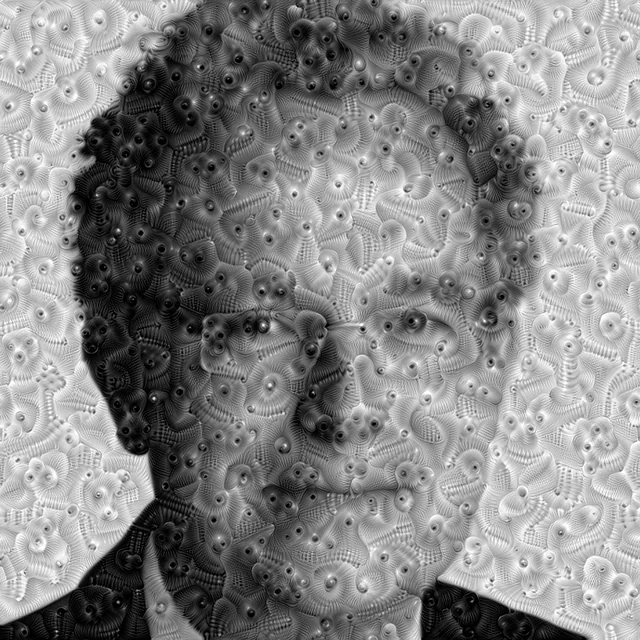
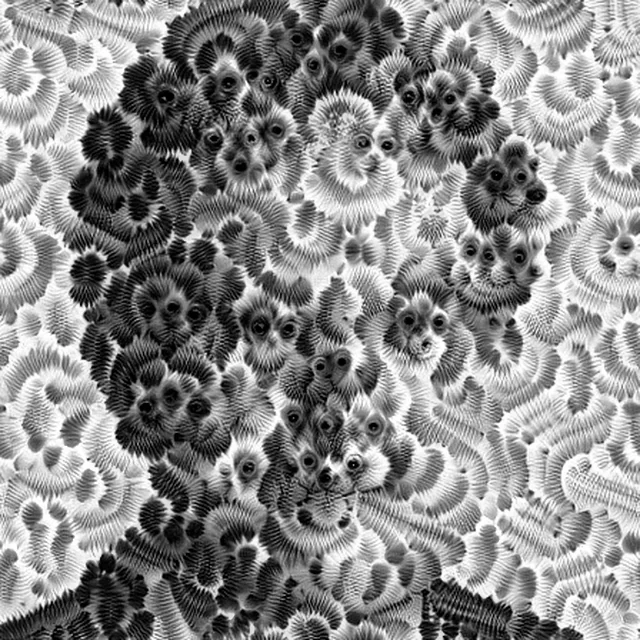
feat(landing): stronger DeepDream on the Hempton portrait
Dreamed on mixed4 + mixed5 at 448px over four octaves and 100 steps,
then upscaled to 640, so the dog faces and eyes are large and many and
only the outline of his head is left.

Claude-Session: https://claude.ai/code/session_01MzgHfwAzQxkQv75w8z7NEz

diff --git a/lib/notes.ts b/lib/notes.ts
@@ -37,7 +37,8 @@ export const NOTES: readonly NoteEntry[] = [
     href: "/writing/the-worst-business-in-the-world",
     tag: null,
     // His portrait run through DeepDream (scripts/deepdream-tile.py, photo
-    // mode), the same treatment as the post's backdrop. Greyscale at rest and
+    // mode) until it is mostly the network's dog faces and eyes, the same
+    // treatment as the post's backdrop. Greyscale at rest and
     // the colour dream on hover; the grey is a luminance reduction in linear
     // light, as for the other shots.
     shot: {
@@ -49,7 +50,7 @@ export const NOTES: readonly NoteEntry[] = [
         width: 640,
         height: 640,
       },
-      alt: "John Hempton's portrait run through DeepDream: his face, glasses and curly hair overgrown with the network's eyes and swirls.",
+      alt: "John Hempton's portrait run through DeepDream until only the outline of his head is left, filled with dog faces and eyes.",
     },
   },
 ];

diff --git a/scripts/deepdream-tile.py b/scripts/deepdream-tile.py
@@ -18,7 +18,10 @@ Hempton thumbnail (public/work/hempton-dream{,-bw}.webp: 640px, the grey a
 linear-light luminance) is, from a square crop of his portrait,
 
   python scripts/deepdream-tile.py OUT.png --start CROP.png --edges reflect \
-    --size 768 --steps 40 --step-size 0.012
+    --size 448 --octaves 4 --steps 100 --step-size 0.02 --layers mixed4,mixed5
+
+then upscaled to 640. Dreaming small and on the deeper layers is what makes
+the dog faces and eyes big against the head.
 
 Needs tensorflow, pillow and numpy (Python 3.12). The committed tile,
 public/backgrounds/hempton-dream.webp, is the first (stripes) run saved as WebP
@@ -38,6 +41,7 @@ ap.add_argument("--layers", default="mixed3,mixed5")
 ap.add_argument("--seed", type=int, default=1)
 ap.add_argument("--start", help="square start image; default is the stripes")
 ap.add_argument("--edges", choices=["wrap", "reflect"], default="wrap")
+ap.add_argument("--octaves", type=int, default=3, help="octaves at 1.3x, ending at --size")
 args = ap.parse_args()
 
 rng = np.random.default_rng(args.seed)
@@ -113,7 +117,7 @@ if args.start:
 else:
     start = start_image(args.size)
 img = tf.constant(start * 2 - 1, tf.float32)  # inception range [-1, 1]
-for octave in range(-2, 1):
+for octave in range(1 - args.octaves, 1):
     size = int(round(args.size * 1.3**octave))
     img = wrap_resize(img, size)
     for i in range(args.steps):

diff --git a/_pm/kanban.md b/_pm/kanban.md
@@ -296,8 +296,8 @@ to break Floyd–Steinberg's lattice.
   tried and reverted the same day. New `hideStandfirst` front-matter keeps the lead off the
   page; it still feeds the meta description.
 - **Hempton grid circle: DeepDream portrait** (2026-11-11) — his portrait (square crop) dreamed
-  with the same script in photo mode (`--start`, `--edges reflect`, 40 steps × 3 octaves at
-  768px), saved as 640px WebP colour + linear-light greyscale (`public/work/hempton-dream*.webp`).
+  with the same script in photo mode (`--start`, `--edges reflect`; strengthened the same day to
+  `mixed4,mixed5`, 100 steps × 4 octaves at 448px, for bigger dogs and eyes), saved as 640px WebP colour + linear-light greyscale (`public/work/hempton-dream*.webp`).
   The grid has no empty circle now.
 
 ## Next
